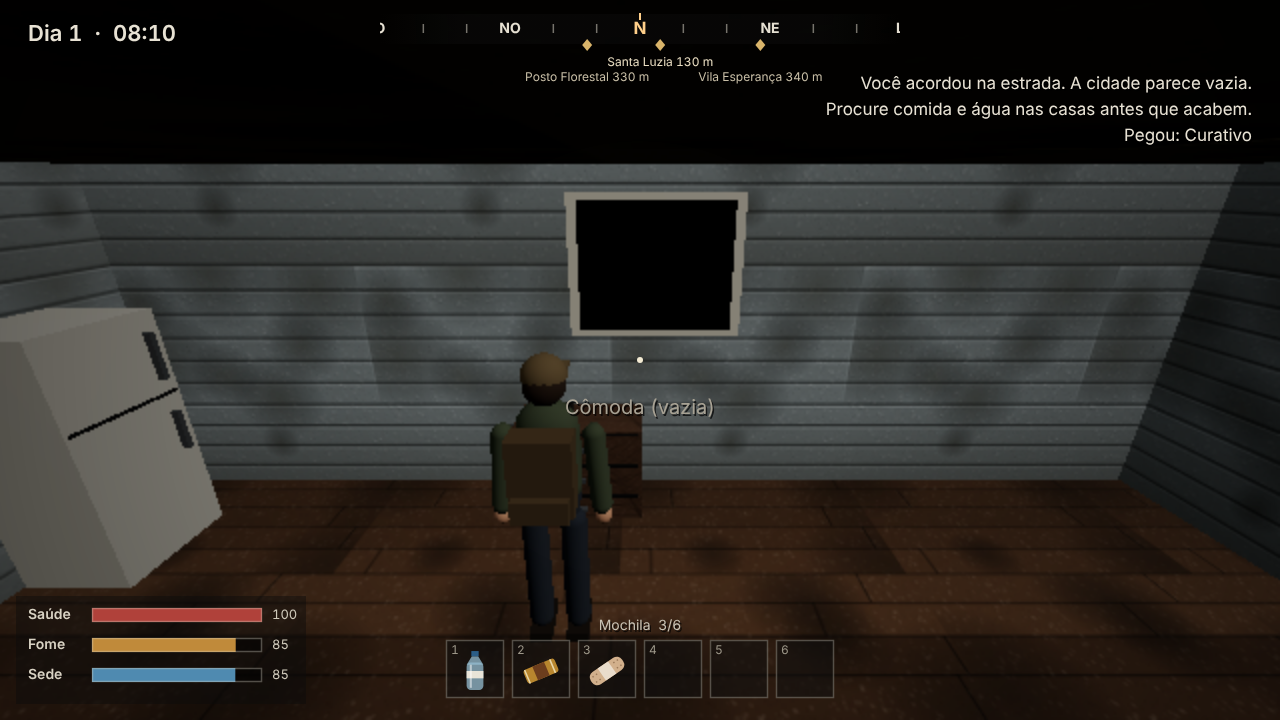
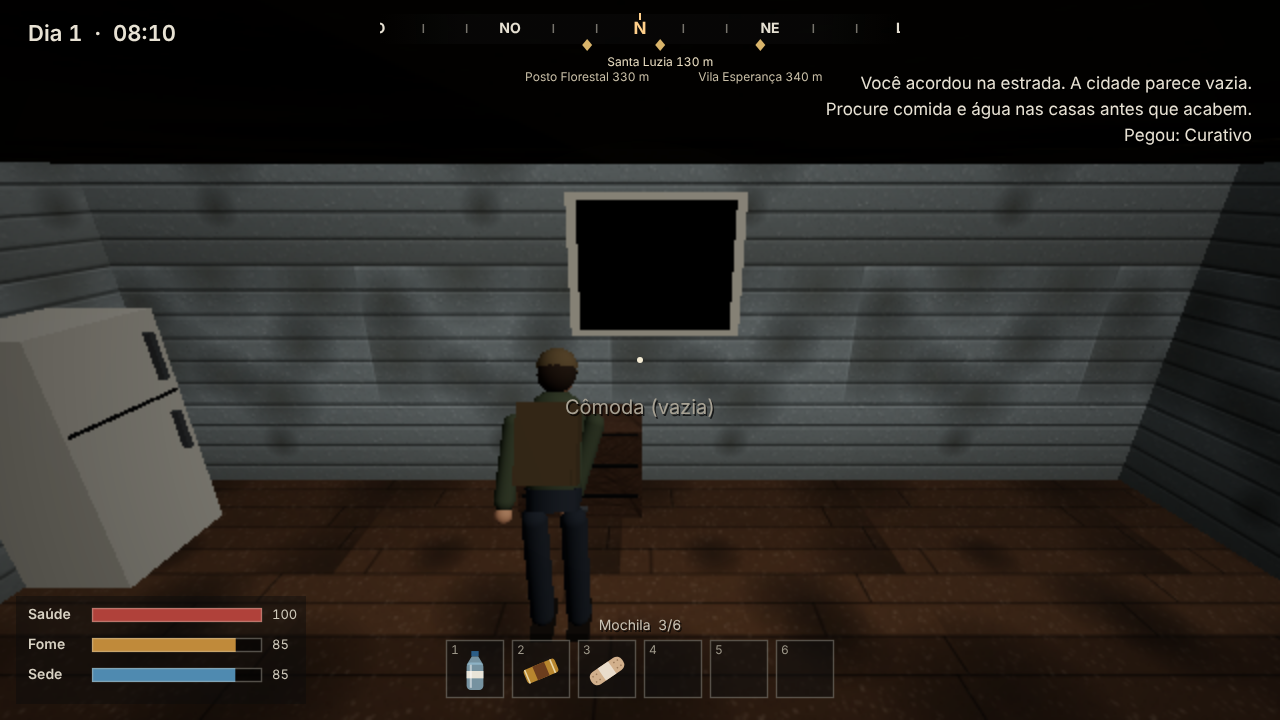
feat: machado, árvores que caem, nado e animações de coleta
Cortar árvore: machado na mão, 4 machadadas com lascas, a árvore tomba
com física e deixa um toco (4 lenhas); árvores derrubadas não voltam.
Lagos com água de verdade: nadar com braçadas e batidas de perna, mais
devagar e com mais fome. Vasculhar com as mãos dentro do móvel, pegar
itens levando à mochila. Passos mudam com o chão.

Story: SPIKE sobrevivencia-spike-2026-11-20

Claude-Session: https://claude.ai/code/session_013o8aek17KGRmKMrjDa2EVT

Changed region(s): [[0.375, 0.6111, 0.5, 0.7333], [0.4062, 0.4889, 0.4688, 0.5806], [0.375, 0.5806, 0.4062, 0.6722]]

diff --git a/prototypes/sobrevivencia-spike-2026-11-20/index.html b/prototypes/sobrevivencia-spike-2026-11-20/index.html
@@ -319,7 +319,16 @@ function noise(dur, freq, vol = 0.2, q = 1, delay = 0) {
   s.connect(f).connect(g).connect(audio.out); s.start(t, (t * 7.3) % 1.5); s.stop(t + dur + 0.05);
 }
 const sfx = {
-  step: () => noise(0.12, 260, 0.12, 0.8),
+  step: (k = 'grama') => {
+    if (k === 'asfalto') { noise(0.06, 900, 0.14, 1.5); noise(0.05, 300, 0.1, 1); }
+    else if (k === 'madeira') { tone(150 + (seed & 31), 0.07, 'triangle', 0.12, -40); noise(0.05, 700, 0.08, 2); }
+    else if (k === 'terra') noise(0.1, 450, 0.13, 0.9);
+    else { noise(0.12, 1800, 0.05, 0.7); noise(0.1, 260, 0.1, 0.8); }
+  },
+  splash: () => { noise(0.25, 1200, 0.18, 0.8); noise(0.35, 500, 0.12, 0.6, 0.05); },
+  axe: () => { noise(0.08, 320, 0.45, 1.4); tone(140, 0.12, 'triangle', 0.25, -50); noise(0.04, 2500, 0.15, 3); },
+  treeCreak: () => { for (let i = 0; i < 5; i++) tone(80 + i * 12, 0.35, 'sawtooth', 0.04, 30, ); noise(1.2, 220, 0.15, 3, 0.1); },
+  treeCrash: () => { noise(0.9, 160, 0.5, 0.6); noise(0.6, 900, 0.25, 0.8, 0.05); tone(45, 0.6, 'sine', 0.4, -15); },
   rustle: () => noise(0.18, 1800 + (seed & 511), 0.08, 2),
   pick: () => { tone(520, 0.08, 'triangle', 0.12); tone(780, 0.12, 'triangle', 0.1); },
   empty: () => tone(180, 0.25, 'sine', 0.12, -60),
@@ -481,7 +490,7 @@ const PRODUCTS = [0.02, 0.1, 0.17, 0.33, 0.55, 0.62, 0.8].map(h => new THREE.Mes
 const phys = new CANNON.World({ gravity: new CANNON.Vec3(0, -9.82, 0) });
 phys.broadphase = new CANNON.SAPBroadphase(phys); phys.allowSleep = true;
 phys.defaultContactMaterial.friction = 0.4; phys.defaultContactMaterial.restitution = 0.1;
-const G_WORLD = 1, G_PLAYER = 2;
+const G_WORLD = 1, G_PLAYER = 2, G_WATER = 4; // water stops cars and objects; you swim through it
 const slipMat = new CANNON.Material('slip');
 phys.addContactMaterial(new CANNON.ContactMaterial(slipMat, phys.defaultMaterial, { friction: 0, restitution: 0 }));
 { const ground = new CANNON.Body({ mass: 0, material: phys.defaultMaterial }); ground.addShape(new CANNON.Plane()); ground.quaternion.setFromEuler(-Math.PI / 2, 0, 0); phys.addBody(ground); }
@@ -491,6 +500,7 @@ function staticBody(b) { // b: {x0,x1,z0,z1,y0,y1}
   body.position.set((b.x0 + b.x1) / 2, (y0 + y1) / 2, (b.z0 + b.z1) / 2); return body;
 }
 const playerBody = new CANNON.Body({ mass: 70, fixedRotation: true, material: slipMat, collisionFilterGroup: G_PLAYER, collisionFilterMask: G_WORLD });
+const inWater = (x, z) => lakes.some(l => Math.hypot(x - l.x, z - l.z) < l.r - 0.5);
 playerBody.addShape(new CANNON.Sphere(0.3), new CANNON.Vec3(0, 0.3, 0)); playerBody.addShape(new CANNON.Sphere(0.3), new CANNON.Vec3(0, 0.85, 0)); playerBody.addShape(new CANNON.Sphere(0.28), new CANNON.Vec3(0, 1.4, 0));
 playerBody.allowSleep = false; phys.addBody(playerBody);
 function groundBelow(x, y, z, len) { // distance to whatever is under (x, y, z), or Infinity
@@ -820,8 +830,13 @@ function buildWorld() {
 // ---- The wider map ----------------------------------------------------------------------------
 // Roads are flat boxes; asphalt roads get a dashed centre line, dirt tracks do not.
 const roadRects = [], footprints = [];
+function groundKind(x, z) {
+  for (const r of footprints) if (x > r[0] + 0.5 && x < r[1] - 0.5 && z > r[2] + 0.5 && z < r[3] - 0.5) return 'madeira';
+  for (const r of roadRects) if (x > r[0] && x < r[1] && z > r[2] && z < r[3]) return r[4] || 'asfalto';
+  return 'grama';
+}
 function road(x0, x1, z0, z1, mat = MAT.asphalt) {
-  roadRects.push([x0 - 1.5, x1 + 1.5, z0 - 1.5, z1 + 1.5]);
+  roadRects.push([x0 - 1.5, x1 + 1.5, z0 - 1.5, z1 + 1.5, mat === MAT.asphalt ? 'asfalto' : 'terra']);
   const cx = (x0 + x1) / 2, cz = (z0 + z1) / 2, sx = x1 - x0, sz = z1 - z0;
   box(cx, -0.015, cz, sx, 0.04, sz, mat, false, 6);
   if (mat !== MAT.asphalt) return;
@@ -998,12 +1013,13 @@ function buildForest() {
     if (edge < 260 && patch < -0.2 && wrng() < 0.85) continue;
     const tr = makeTree(x, z);
     const c = chunkOf(x, z); if (!byChunk.has(c)) byChunk.set(c, []); byChunk.get(c).push(tr);
-    if (x > BOUND.x0 - 2 && x < BOUND.x1 + 2 && z > BOUND.z0 - 2 && z < BOUND.z1 + 2) { boxes.push({ x0: x - 0.3, x1: x + 0.3, z0: z - 0.3, z1: z + 0.3, y0: 0, y1: 9 }); trees.push({ x, z }); }
+    if (x > BOUND.x0 - 2 && x < BOUND.x1 + 2 && z > BOUND.z0 - 2 && z < BOUND.z1 + 2) { const bx = { x0: x - 0.3, x1: x + 0.3, z0: z - 0.3, z1: z + 0.3, y0: 0, y1: 9 }; boxes.push(bx); tr.rec = { x, z, box: bx }; trees.push(tr.rec); }
     n++;
   }
   for (const [c, list] of byChunk) plantTrees(c, list);
 }
 // One set of instanced meshes per chunk, so a far chunk's trees switch off (and unload) with it.
+const felled = new Set(); const treeKey = (x, z) => x.toFixed(1) + ',' + z.toFixed(1);
 const TRUNK_G = new THREE.CylinderGeometry(0.2, 0.32, 1, 7), CROWN_G = new THREE.IcosahedronGeometry(1, 1);
 TRUNK_G.userData.shared = CROWN_G.userData.shared = true;
 function makeTree(x, z) {
@@ -1021,11 +1037,13 @@ function plantTrees(c, list) {
     const cn = [0, 0, 0];
     list.forEach((t, i) => {
       m4.compose(v.set(t.x, t.h / 2, t.z), q.identity(), sc.set(1, t.h, 1)); trunks.setMatrixAt(i, m4);
+      const inst = { trunk: [trunks, i], crowns: [], h: t.h, data: t.crowns };
       for (const cr of t.crowns) {
         e.set(cr.ex, cr.ey, 0); q.setFromEuler(e);
         m4.compose(v.set(t.x + cr.ox, t.h + cr.k * 1.2 - 0.4, t.z + cr.oz), q, sc.set(cr.r, cr.r * 0.9, cr.r));
-        crowns[cr.ci].setMatrixAt(cn[cr.ci]++, m4);
+        inst.crowns.push([crowns[cr.ci], cn[cr.ci]]); crowns[cr.ci].setMatrixAt(cn[cr.ci]++, m4);
       }
+      if (t.rec) t.rec.inst = inst;
     });
     trunks.castShadow = true; world.add(trunks); c.objs.push(trunks); trunks.userData.chunked = true;
     crowns.forEach((m, i) => { m.count = cn[i]; m.castShadow = true; m.receiveShadow = true; m.computeBoundingSphere(); world.add(m); c.objs.push(m); m.userData.chunked = true; });
@@ -1158,7 +1176,8 @@ function genChunk(c) {
       if (clear.some(r => x > r[0] && x < r[1] && z > r[2] && z < r[3])) continue;
       if (Math.abs(z - nearestRowZ(z)) < 11 || Math.abs(x - Math.round(x / 600) * 600) < 11) continue; // roadsides
       if (lakes.slice(n0.lakes).some(l => Math.hypot(x - l.x, z - l.z) < l.r + 6)) continue;
-      treesIn.push(makeTree(x, z)); boxes.push({ x0: x - 0.3, x1: x + 0.3, z0: z - 0.3, z1: z + 0.3, y0: 0, y1: 9 }); trees.push({ x, z, chunk: c.key }); k++;
+      if (felled.has(treeKey(x, z))) continue;
+      const tr = makeTree(x, z), bx = { x0: x - 0.3, x1: x + 0.3, z0: z - 0.3, z1: z + 0.3, y0: 0, y1: 9 }; boxes.push(bx); tr.rec = { x, z, chunk: c.key, box: bx }; trees.push(tr.rec); treesIn.push(tr); k++;
     }
   };
   let townName = null;
@@ -1227,7 +1246,7 @@ function genChunk(c) {
   c.solids = solids.splice(n0.solids);
   c.boxes = boxes.slice(n0.boxes); c.containers = containers.slice(n0.cont); c.doors = doors.slice(n0.doors);
   c.props = props.slice(n0.props); c.cars = cars.slice(n0.cars); c.lakes = lakes.slice(n0.lakes); c.pumps = pumps.slice(n0.pumps);
-  c.lakeBodies = c.lakes.map(l => { const lb = new CANNON.Body({ mass: 0 }); lb.addShape(new CANNON.Cylinder(l.r, l.r, 2, 24)); lb.position.set(l.x, 0, l.z); phys.addBody(lb); return lb; });
+  c.lakeBodies = c.lakes.map(l => { const lb = new CANNON.Body({ mass: 0, collisionFilterGroup: G_WATER }); lb.addShape(new CANNON.Cylinder(l.r, l.r, 2, 24)); lb.position.set(l.x, 0, l.z); phys.addBody(lb); return lb; });
   for (const cn of c.containers) cn.items = fillContainer(cn);
   if (save) { // put back what you did here last time
     c.containers.forEach((cn, i) => { const sv = save.containers[i]; if (sv) Object.assign(cn, sv); });
@@ -1310,7 +1329,7 @@ function updateChunks() {
 buildWorld();
 chunkWorld(); bakeChunks(); indexBoxes();
 for (const d of doors) globalSolids.push(d.leaf); // the camera stops in front of doors
-for (const l of lakes) { const lb = new CANNON.Body({ mass: 0 }); lb.addShape(new CANNON.Cylinder(l.r, l.r, 2, 24)); lb.position.set(l.x, 0, l.z); phys.addBody(lb); }
+for (const l of lakes) { const lb = new CANNON.Body({ mass: 0, collisionFilterGroup: G_WATER }); lb.addShape(new CANNON.Cylinder(l.r, l.r, 2, 24)); lb.position.set(l.x, 0, l.z); phys.addBody(lb); }
 for (const h of houses) spawnPropsInHouse(h);
 for (let i = 0; i < 14; i++) spawnProp(i % 2 ? 'pneu' : 'balde', (wrng() - 0.5) * 8, 0.5, 120 - i * 18 + wrng() * 6, wrng() * 6);
 
@@ -1321,7 +1340,7 @@ let viewMode = 3; // 3: over the shoulder, 1: through the eyes (V or the camera 
 const hero = (() => {
   const C = (c, r = 0.85) => new THREE.MeshStandardMaterial({ color: c, roughness: r });
   const skin = C(0xb88a6c, 0.7), jacket = C(0x4b5340), pants = C(0x30363f), boots = C(0x2b231d), cap = C(0x6b5a3f), pack = C(0x5b4a33), strap = C(0x2e2a24);
-  const root = new THREE.Group(), body = new THREE.Group(); root.add(body); world.add(root);
+  const root = new THREE.Group(), body = new THREE.Group(); root.rotation.order = 'YXZ'; root.add(body); world.add(root);
   const part = (geo, mat, x, y, z, parent) => { const m = new THREE.Mesh(geo, mat); m.position.set(x, y, z); m.castShadow = true; parent.add(m); return m; };
   const legs = [-0.11, 0.11].map(x => {
     const pv = new THREE.Group(); pv.position.set(x, 0.95, 0); root.add(pv);
@@ -1352,19 +1371,34 @@ const hero = (() => {
 function lerpAngle(a, b, t) { let d = ((b - a + Math.PI) % (Math.PI * 2) + Math.PI * 2) % (Math.PI * 2) - Math.PI; return a + d * t; }
 function poseHero(x, z) {
   const s = state, h = hero, c = s.crouch || 0;
-  h.root.position.set(x, s.y || 0, z); h.root.rotation.y = s.face;
+  const sk = s.swimK || 0;
+  h.root.position.set(x, (s.y || 0) - 0.25 * sk, z); h.root.rotation.y = s.face; h.root.rotation.x = -1.25 * sk;
   const amp = s.speedNow > 4.5 ? 0.85 : 0.5, sw = Math.sin(s.bob * 1.4) * amp * Math.min(1, s.speedNow / 2);
   h.legs[0].rotation.x = sw * (1 - c); h.legs[1].rotation.x = -sw * (1 - c);
   h.legs[0].scale.y = h.legs[1].scale.y = 1 - 0.32 * c;
   h.torso.position.y = 0.95 - 0.3 * c + Math.abs(Math.sin(s.bob * 1.4)) * 0.03 * Math.min(1, s.speedNow / 2);
   h.torso.rotation.x = -0.45 * c - (s.speedNow > 4.5 ? 0.15 : 0);
-  const reach = c > 0.5 ? Math.sin(s.t * 9) * 0.25 : 0;
-  h.arms[0].rotation.x = -sw * 0.8 * (1 - c) - 1.1 * c + reach; h.arms[1].rotation.x = sw * 0.8 * (1 - c) - 1.1 * c - reach;
+  const reach = c > 0.5 ? Math.sin(s.t * 9) * 0.35 : 0; // rummaging: hands in and out of the furniture
+  h.arms[0].rotation.x = -sw * 0.8 * (1 - c) + 1.25 * c + reach; h.arms[1].rotation.x = sw * 0.8 * (1 - c) + 1.25 * c - reach;
   h.arms[0].rotation.z = -0.08; h.arms[1].rotation.z = 0.08;
-  if (s.chop) { const k = Math.sin(s.chop.p * Math.PI * 10); h.arms[0].rotation.x = h.arms[1].rotation.x = -1.7 + k * 0.9; h.torso.rotation.x = -0.1 - k * 0.15; }
+  heldAxe.visible = !!s.chop;
+  if (s.chop) { // wind up over the shoulder, then a fast blow
+    const w = s.chop.swing, a = w < 0.55 ? 1.6 + (w / 0.55) * 1.4 : 3.0 - Math.min(1, (w - 0.55) / 0.12) * 2.3;
+    h.arms[0].rotation.set(a, 0, 0.35); h.arms[1].rotation.set(a, 0, -0.05); h.torso.rotation.x = w < 0.55 ? 0.12 : -0.3; h.torso.rotation.y = 0.5;
+  }
+  if (s.pickAnim > 0) { // bend, then reach back to the backpack
+    const k = 1 - s.pickAnim / 0.7;
+    if (k < 0.45) { h.torso.rotation.x = -0.6 * (k / 0.45); h.arms[1].rotation.x = 0.4; }
+    else { h.torso.rotation.x = -0.6 * (1 - (k - 0.45) / 0.55); h.arms[1].rotation.set(-2.4 * ((k - 0.45) / 0.55) + 0.4, 0, -0.3); }
+  }
+  if (sk > 0.5) { // crawl strokes and a flutter kick
+    const ph = s.t * 3.2;
+    h.arms[0].rotation.set(Math.PI + Math.sin(ph) * 1.6, 0, 0.2); h.arms[1].rotation.set(Math.PI + Math.sin(ph + Math.PI) * 1.6, 0, -0.2);
+    h.legs[0].rotation.x = 0.55 + Math.sin(ph * 2.2) * 0.25; h.legs[1].rotation.x = 0.55 - Math.sin(ph * 2.2) * 0.25; h.torso.rotation.x = 0.25; // legs trail low in the water
+  }
   // a gun in hand: arms forward along the aim, the off hand under long guns
-  for (const id in gunMeshes) gunMeshes[id].visible = id === s.gun;
-  if (s.gun && !s.driving) {
+  for (const id in gunMeshes) gunMeshes[id].visible = id === s.gun && !s.chop && !s.search;
+  if (s.gun && !s.driving && !s.chop && !s.search && !(s.pickAnim > 0) && sk < 0.5) {
     const up = s.pitch * 0.9, rl = s.reload ? 0.5 : 0, long = s.gun !== 'pistola';
     h.arms[1].rotation.set(Math.PI / 2 + up - rl + (s.kick || 0) * 0.15, 0, 0.05);
     h.arms[0].rotation.set(Math.PI / 2 + up - (long ? 0.1 : 0) - rl * 1.5, 0, long ? 0.6 : 0.35);
@@ -1586,6 +1620,10 @@ const heldGun = new THREE.Group(); heldGun.rotation.x = -Math.PI / 2; // in the 
 const viewGun = new THREE.Group(); camera.add(viewGun);                // first-person view model
 const gunMeshes = {}, viewMeshes = {};
 hero.hand.add(heldGun);
+const heldAxe = new THREE.Group(); heldAxe.rotation.x = -Math.PI / 2; hero.hand.add(heldAxe);
+{ const hm = new THREE.Mesh(new THREE.CylinderGeometry(0.018, 0.022, 0.75, 6), GUNMAT.wood); hm.rotation.x = Math.PI / 2; hm.position.z = -0.25; heldAxe.add(hm);
+  const head = new THREE.Mesh(new THREE.BoxGeometry(0.03, 0.17, 0.12), GUNMAT.steel); head.position.set(0, 0.06, -0.58); heldAxe.add(head);
+  const edge = new THREE.Mesh(new THREE.BoxGeometry(0.012, 0.2, 0.04), new THREE.MeshStandardMaterial({ color: 0xb8bcc0, metalness: 0.9, roughness: 0.25 })); edge.position.set(0, 0.13, -0.58); heldAxe.add(edge); heldAxe.visible = false; }
 for (const id in GUNS) { gunMeshes[id] = makeGunMesh(id); heldGun.add(gunMeshes[id]); viewMeshes[id] = makeGunMesh(id); viewGun.add(viewMeshes[id]); }
 const muzzleLight = new THREE.PointLight(0xffc070, 0, 8, 2); world.add(muzzleLight);
 const flashMat = new THREE.MeshBasicMaterial({ color: 0xffd28a, transparent: true, opacity: 0.9, depthWrite: false });
@@ -1788,6 +1826,42 @@ function stepAnimals(dt) {
     a.head.rotation.x = a.mode === 'idle' ? 0.5 + Math.sin(s.t * 1.3 + a.x) * 0.1 : 0; // grazing
   }
 }
+const ZERO_M = new THREE.Matrix4().makeScale(0, 0, 0), stumps = [], logs = [];
+const LEAFMATS = [MAT.leafA, MAT.leafB, MAT.leafC];
+function fellTree(rec, fromX, fromZ) {
+  const s = state, inst = rec.inst; if (!inst) return;
+  // hide the standing tree and its collision
+  inst.trunk[0].setMatrixAt(inst.trunk[1], ZERO_M); inst.trunk[0].instanceMatrix.needsUpdate = true;
+  for (const [im, i] of inst.crowns) { im.setMatrixAt(i, ZERO_M); im.instanceMatrix.needsUpdate = true; }
+  const b = rec.box; if (b.body && liveBoxes.has(b)) { phys.removeBody(b.body); liveBoxes.delete(b); }
+  for (let i = Math.floor(b.x0 / GRID); i <= Math.floor(b.x1 / GRID); i++) for (let j = Math.floor(b.z0 / GRID); j <= Math.floor(b.z1 / GRID); j++) { const l = grid.get(gkey(i, j)); if (l) { const k = l.indexOf(b); if (k >= 0) l.splice(k, 1); } }
+  trees.splice(trees.indexOf(rec), 1); felled.add(treeKey(rec.x, rec.z));
+  // a stump stays
+  const st = mesh(new THREE.CylinderGeometry(0.24, 0.32, 0.45, 8), MAT.bark, rec.x, 0.22, rec.z); stumps.push(st);
+  mesh(new THREE.CircleGeometry(0.24, 8), PARTMAT.wood, rec.x, 0.451, rec.z, world, false).rotation.x = -Math.PI / 2;
+  // the trunk and crown fall as one physics body, away from the axe
+  const g = new THREE.Group(); world.add(g);
+  mesh(new THREE.CylinderGeometry(0.2, 0.3, inst.h - 0.45, 7), MAT.bark, 0, 0, 0, g);
+  for (const cr of inst.data) { const c = mesh(CROWN_G, LEAFMATS[cr.ci], cr.ox, (inst.h - 0.45) / 2 + cr.k * 1.2 - 0.4, cr.oz, g); c.scale.set(cr.r, cr.r * 0.9, cr.r); c.rotation.set(cr.ex, cr.ey, 0); }
+  const body = new CANNON.Body({ mass: 250, material: phys.defaultMaterial, angularDamping: 0.3 });
+  body.addShape(new CANNON.Cylinder(0.25, 0.3, inst.h - 0.45, 8)); body.addShape(new CANNON.Sphere(1.6), new CANNON.Vec3(0, (inst.h - 0.45) / 2 + 0.5, 0));
+  body.position.set(rec.x, 0.45 + (inst.h - 0.45) / 2 + 0.05, rec.z);
+  const away = new CANNON.Vec3(rec.x - fromX, 0, rec.z - fromZ); away.normalize();
+  body.angularVelocity.set(away.z * 0.6, 0, -away.x * 0.6); // tip over, away from you
+  phys.addBody(body); logs.push({ g, body, t: 9, landed: false });
+  sfx.treeCreak();
+}
+function stepLogs(dt) {
+  for (let i = logs.length - 1; i >= 0; i--) {
+    const L = logs[i]; L.t -= dt; L.g.position.copy(L.body.position); L.g.quaternion.copy(L.body.quaternion);
+    const up = L.body.quaternion.vmult(new CANNON.Vec3(0, 1, 0)).y;
+    if (!L.landed && up < 0.35) { L.landed = true; sfx.treeCrash(); burst(new THREE.Vector3(L.body.position.x, 0.3, L.body.position.z), 14, PARTMAT.wood, 3); }
+    if (L.t <= 0) { // the fallen tree breaks up into the firewood you were given
+      L.g.scale.multiplyScalar(0.9);
+      if (L.g.scale.x < 0.05) { world.remove(L.g); phys.removeBody(L.body); logs.splice(i, 1); }
+    }
+  }
+}
 function carcassNear() {
   let best = null, bd = 2.2;
   for (const a of animals) if (a.dead && !a.skinned) { const d = Math.hypot(a.x - state.x, a.z - state.z); if (d < bd) { bd = d; best = a; } }
@@ -1916,12 +1990,12 @@ function placeCamera(alpha = 1) {
   }
   if (viewMode === 1 || scene === 'title') {
     hero.root.visible = false;
-    camera.position.set(x, (s.y || 0) + 1.62 - 0.45 * (s.crouch || 0) + Math.sin(s.bob) * 0.035, z); return;
+    camera.position.set(x, (s.y || 0) + 1.62 - 0.45 * (s.crouch || 0) - 1.25 * (s.swimK || 0) + Math.sin(s.bob) * 0.035, z); return;
   }
   poseHero(x, z);
   // over the shoulder: back along the view, to the right, pulled in when a wall is in the way
   const cp = Math.cos(s.pitch), sy = Math.sin(s.yaw), cy = Math.cos(s.yaw);
-  _o.set(x, (s.y || 0) + 1.55 - 0.3 * (s.crouch || 0), z);
+  _o.set(x, (s.y || 0) + 1.55 - 0.3 * (s.crouch || 0) - 1.0 * (s.swimK || 0), z);
   const cd = s.aiming ? tune.cam_distance * 0.5 : tune.cam_distance;
   _v.set(sy * cp * cd + cy * tune.cam_shoulder, tune.cam_height - Math.sin(s.pitch) * cd,
     cy * cp * cd - sy * tune.cam_shoulder);
@@ -1936,7 +2010,7 @@ function placeCamera(alpha = 1) {
     const side = Math.abs(tx * _v.z - tz * _v.x) / hl; if (side < 0.5) d = Math.max(0.2, Math.min(d, along / hl - 0.45));
   }
   camera.position.copy(_o).addScaledVector(_v, d);
-  if (camera.position.y < 0.25) camera.position.y = 0.25;
+  if (camera.position.y < (s.swim ? 0.6 : 0.25)) camera.position.y = s.swim ? 0.6 : 0.25;
   hero.root.visible = d > 0.7; // too close to the head: hide the body rather than look through it
 }
 function collide(p) {
@@ -2164,7 +2238,7 @@ const scenes = {
       else {
         let vx = 0, vz = 0;
         if (moving) {
-          const len = Math.hypot(f, st) / mag, sp = (running ? tune.run_speed : tune.walk_speed) * (s.health < 25 ? 0.75 : 1);
+          const len = Math.hypot(f, st) / mag, sp = (s.swim ? tune.swim_speed : running ? tune.run_speed : tune.walk_speed) * (s.health < 25 ? 0.75 : 1);
           const sy = Math.sin(s.yaw), cy = Math.cos(s.yaw);
           vx = (-sy * f + cy * st) / len * sp; vz = (-cy * f - sy * st) / len * sp;
         }
@@ -2175,7 +2249,9 @@ const scenes = {
           const hurt = (-s.airVy - tune.fall_safe_speed) * tune.fall_damage; s.health -= hurt; say(`Queda feia: -${Math.round(hurt)} de saúde.`); sfx.thud();
         }
         s.airVy = onGround ? 0 : Math.min(s.airVy, pb.velocity.y); s.air = !onGround;
-        if (onGround && pressed('Space') && !s.craftOpen) { pb.velocity.y = tune.jump_speed; s.air = true; sfx.step(); }
+        s.swim = inWater(pb.position.x, pb.position.z);
+        if (s.swim && s.gun) { s.gun = null; s.aiming = false; say('Arma guardada para nadar.'); }
+        if (onGround && !s.swim && pressed('Space') && !s.craftOpen) { pb.velocity.y = tune.jump_speed; s.air = true; sfx.step(); }
       }
       holdProp(dt); stepDoors(dt);
       phys.step(STEP);
@@ -2186,12 +2262,13 @@ const scenes = {
         if (s.gun && !s.driving) s.face = lerpAngle(s.face, s.yaw, Math.min(1, 14 * dt));
         else if (moved > 0.001 && !s.driving) s.face = lerpAngle(s.face, Math.atan2(-(s.x - s.px), -(s.z - s.pz)), Math.min(1, 12 * dt));
         s.bob += moved * 3.2; s.walked += moved;
-        if (!s.driving && !s.air && s.walked > (running ? 1.6 : 1.35)) { s.walked = 0; sfx.step(); }
+        if (!s.driving && !s.air && s.walked > (s.swim ? 1.1 : running ? 1.6 : 1.35)) { s.walked = 0; if (s.swim) { sfx.splash(); burst(new THREE.Vector3(s.x - Math.sin(s.face) * 0.6, 0.1, s.z - Math.cos(s.face) * 0.6), 5, PARTMAT.glass, 1.8); } else sfx.step(groundKind(s.x, s.z)); }
       }
       s.speedNow = Math.hypot(s.x - s.px, s.z - s.pz) / dt;
       // time and needs
       s.hour += 24 / tune.day_length * dt;
-      s.hunger = Math.max(0, s.hunger - tune.hunger_drain / 60 * dt);
+      s.hunger = Math.max(0, s.hunger - tune.hunger_drain * (s.swim ? tune.swim_hunger_mult : 1) / 60 * dt);
+      s.swimK = (s.swimK || 0) + ((s.swim && !s.driving ? 1 : 0) - (s.swimK || 0)) * Math.min(1, 4 * dt);
       s.thirst = Math.max(0, s.thirst - tune.thirst_drain * (running ? tune.run_thirst_mult : 1) * (s.sick > 0 ? 1.5 : 1) / 60 * dt);
       let dmg = 0;
       if (s.hunger <= 0) dmg += tune.starve_damage;
@@ -2219,7 +2296,7 @@ const scenes = {
         if (Math.hypot(f.x - s.x, f.z - s.z) < 25) say('A fogueira apagou.');
       }
       if (pressed('KeyF')) { s.flash = !s.flash; sfx.click(); }
-      stepGuns(dt); stepParticles(dt); stepAnimals(dt); if (s.pickAnim > 0) s.pickAnim -= dt;
+      stepGuns(dt); stepParticles(dt); stepAnimals(dt); stepLogs(dt); if (s.pickAnim > 0) s.pickAnim -= dt;
       if (!s.driving && s.speedNow > 4.5 && Math.floor(s.t * 60) % 20 === 0) makeNoise(s.x, s.z, 22);
       // search
       placeCamera();
@@ -2257,12 +2334,20 @@ const scenes = {
       } else s.skin = null;
       const tr = c || s.act || s.driving || carc ? null : aimTree(); s.tree = tr;
       if (tr && down.has('KeyE')) {
-        if (!s.chop || s.chop.t !== tr) s.chop = { t: tr, p: 0, n: 0 };
-        s.chop.p += dt / tune.chop_time;
-        if (s.chop.p * 5 > s.chop.n) { s.chop.n++; sfx.chop(); }
-        s.face = lerpAngle(s.face, Math.atan2(-(tr.x - s.x), -(tr.z - s.z)), Math.min(1, 10 * dt));
-        if (s.chop.p >= 1) { s.chop = null; if (addItem('lenha')) { say('Pegou: Lenha'); sfx.pick(); } else { say('Mochila cheia: sem espaço para a lenha.'); sfx.empty(); } }
-      } else s.chop = null;
+        if (!s.chop || s.chop.t !== tr) s.chop = { t: tr, p: 0, swing: 0, hits: s.chopHold && s.chopHold.t === tr ? s.chopHold.hits : 0, struck: false };
+        const ch = s.chop; ch.swing += dt / tune.swing_time;
+        if (!ch.struck && ch.swing > 0.62) { // the blade bites
+          ch.struck = true; ch.hits++; sfx.axe(); makeNoise(s.x, s.z, 30);
+          burst(new THREE.Vector3(tr.x - Math.sin(s.face) * -0.3, 1.0, tr.z - Math.cos(s.face) * -0.3), 6, PARTMAT.wood, 2);
+          if (ch.hits >= tune.tree_hits) {
+            fellTree(tr, s.x, s.z); s.chop = null; let got = 0;
+            for (let i = 0; i < tune.tree_wood; i++) if (addItem('lenha')) got++;
+            say(got ? `A árvore caiu! Pegou ${got} × Lenha` + (got < tune.tree_wood ? ' (mochila cheia)' : '') : 'A árvore caiu, mas a mochila está cheia.');
+          }
+        }
+        if (s.chop && ch.swing >= 1) { ch.swing = 0; ch.struck = false; }
+        if (s.chop) { ch.p = (ch.hits + ch.swing) / tune.tree_hits; s.face = lerpAngle(s.face, Math.atan2(-(tr.x - s.x), -(tr.z - s.z)), Math.min(1, 10 * dt)); }
+      } else if (s.chop && !down.has('KeyE')) s.chopHold = s.chop, s.chop = null;
       s.crouch += ((s.search || s.skin ? 1 : 0) - s.crouch) * Math.min(1, 10 * dt);
       if (s.search) { const p = s.search.c.group.position; s.face = lerpAngle(s.face, Math.atan2(-(p.x - s.x), -(p.z - s.z)), Math.min(1, 10 * dt)); }
       for (const m of s.msgs) m.life -= dt;
@@ -2486,11 +2571,11 @@ function drawHud(day) {
   } else if (s.carcass) {
     shadowText(`${TOUCH ? 'Segure VASCULHAR' : 'Segure E'}: esfolar ${AN[s.carcass.kind].name}`, W / 2, H / 2 + 48, 20, '#fff');
   } else if (s.chop) {
-    shadowText('Cortando lenha…', W / 2, H / 2 + 48, 20, '#fff');
+    shadowText(`Cortando a árvore: golpe ${Math.min(tune.tree_hits, s.chop.hits + 1)} de ${tune.tree_hits}`, W / 2, H / 2 + 48, 20, '#fff');
     ctx.fillStyle = 'rgba(0,0,0,0.6)'; ctx.fillRect(W / 2 - 90, H / 2 + 66, 180, 8);
     ctx.fillStyle = '#c9a06a'; ctx.fillRect(W / 2 - 90, H / 2 + 66, 180 * Math.min(1, s.chop.p), 8);
   } else if (s.tree && !s.aim) {
-    shadowText(TOUCH ? 'Segure VASCULHAR: cortar lenha' : 'Segure E: cortar lenha', W / 2, H / 2 + 48, 20, '#fff');
+    shadowText(TOUCH ? 'Segure VASCULHAR: derrubar a árvore' : 'Segure E: derrubar a árvore com o machado', W / 2, H / 2 + 48, 20, '#fff');
   } else if (!s.aim && !s.craftOpen && nearFire()) {
     shadowText(`Fogueira acesa  ·  ${TOUCH ? 'FABRICAR' : 'C'}: cozinhar`, W / 2, H / 2 + 48, 18, '#ffd9a8');
   } else if (s.aim) {
@@ -2615,6 +2700,7 @@ window.game = {
   get events() { return events; },
   houses, containers, trees, fires, RECIPES, cars, props, doors, pumps, playerBody, phys,
   get size() { return [W, H]; },
+  logs, lakes,
   animals, GUNS, camera,
   teleport(x, z, yaw) { playerBody.position.set(x, 0.05, z); playerBody.velocity.setZero(); state.x = state.px = x; state.z = state.pz = z; if (yaw !== undefined) state.yaw = yaw; updateChunks(); },
   chunks, updateChunks, get drawCalls() { return renderer.info.render.calls; }, get aimCount() { return aimTargets.length; },

diff --git a/prototypes/sobrevivencia-spike-2026-11-20/config.js b/prototypes/sobrevivencia-spike-2026-11-20/config.js
@@ -30,7 +30,11 @@ window.CONFIG = {
 
   // --- Fabricação ---
   stack_max: { value: 5, min: 1, max: 20, step: 1 },           // materiais por espaço da mochila
-  chop_time: { value: 3.5, min: 0.5, max: 10, step: 0.25 },     // segundos segurando E numa árvore para 1 lenha
+  swing_time: { value: 0.85, min: 0.3, max: 3, step: 0.05 },    // segundos por machadada
+  tree_hits: { value: 4, min: 1, max: 12, step: 1 },            // machadadas para derrubar uma árvore
+  tree_wood: { value: 4, min: 1, max: 10, step: 1 },            // lenhas que uma árvore dá
+  swim_speed: { value: 1.6, min: 0.5, max: 5, step: 0.1 },      // m/s nadando
+  swim_hunger_mult: { value: 1.8, min: 1, max: 4, step: 0.1 },  // nadar gasta mais fome
   chop_reach: { value: 1.6, min: 0.8, max: 3, step: 0.1 },      // m até o tronco
   craft_extra_slots: { value: 3, min: 1, max: 6, step: 1 },     // espaços a mais da mochila reforçada
   fire_hours: { value: 6, min: 1, max: 24, step: 0.5 },         // horas de jogo que a fogueira fica acesa
